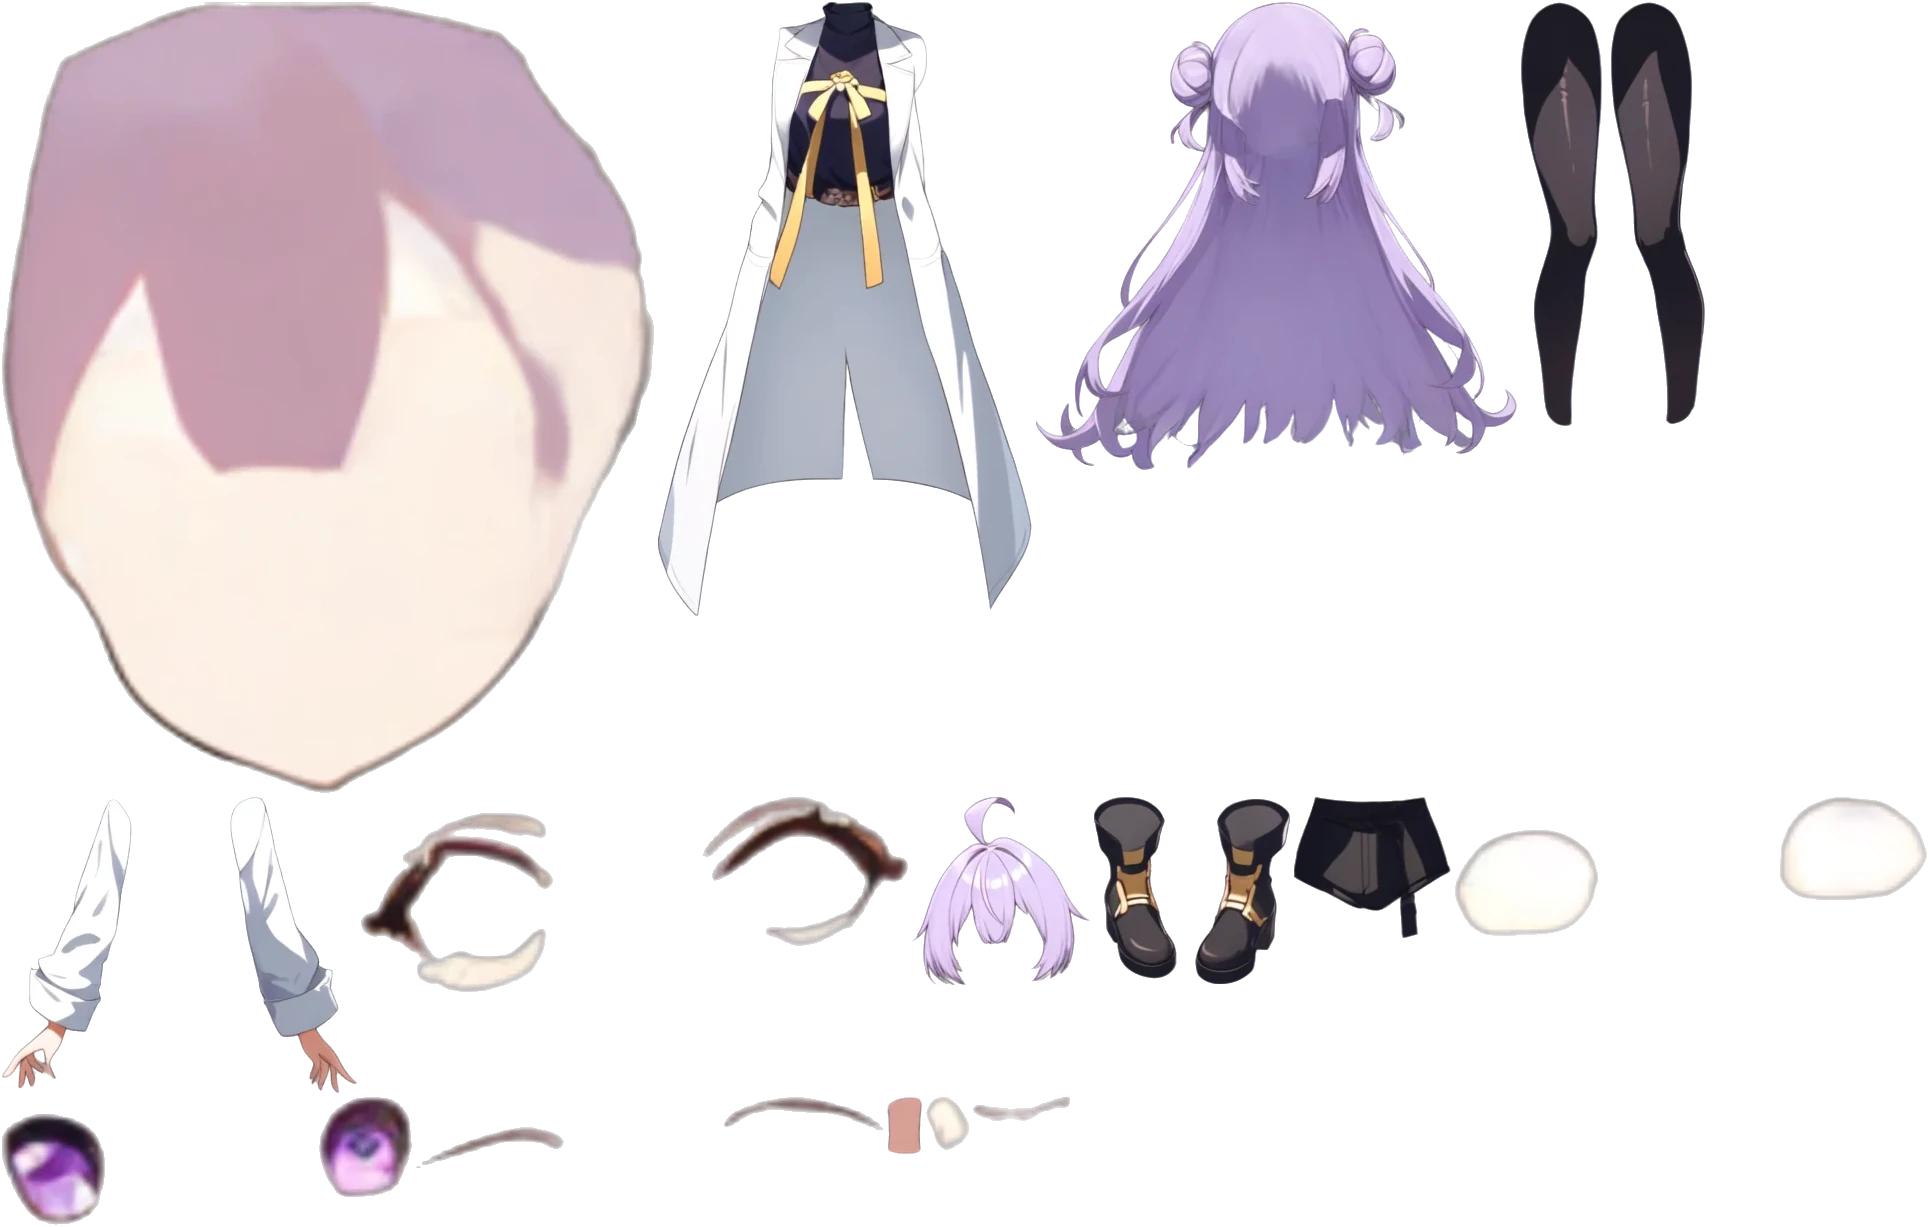
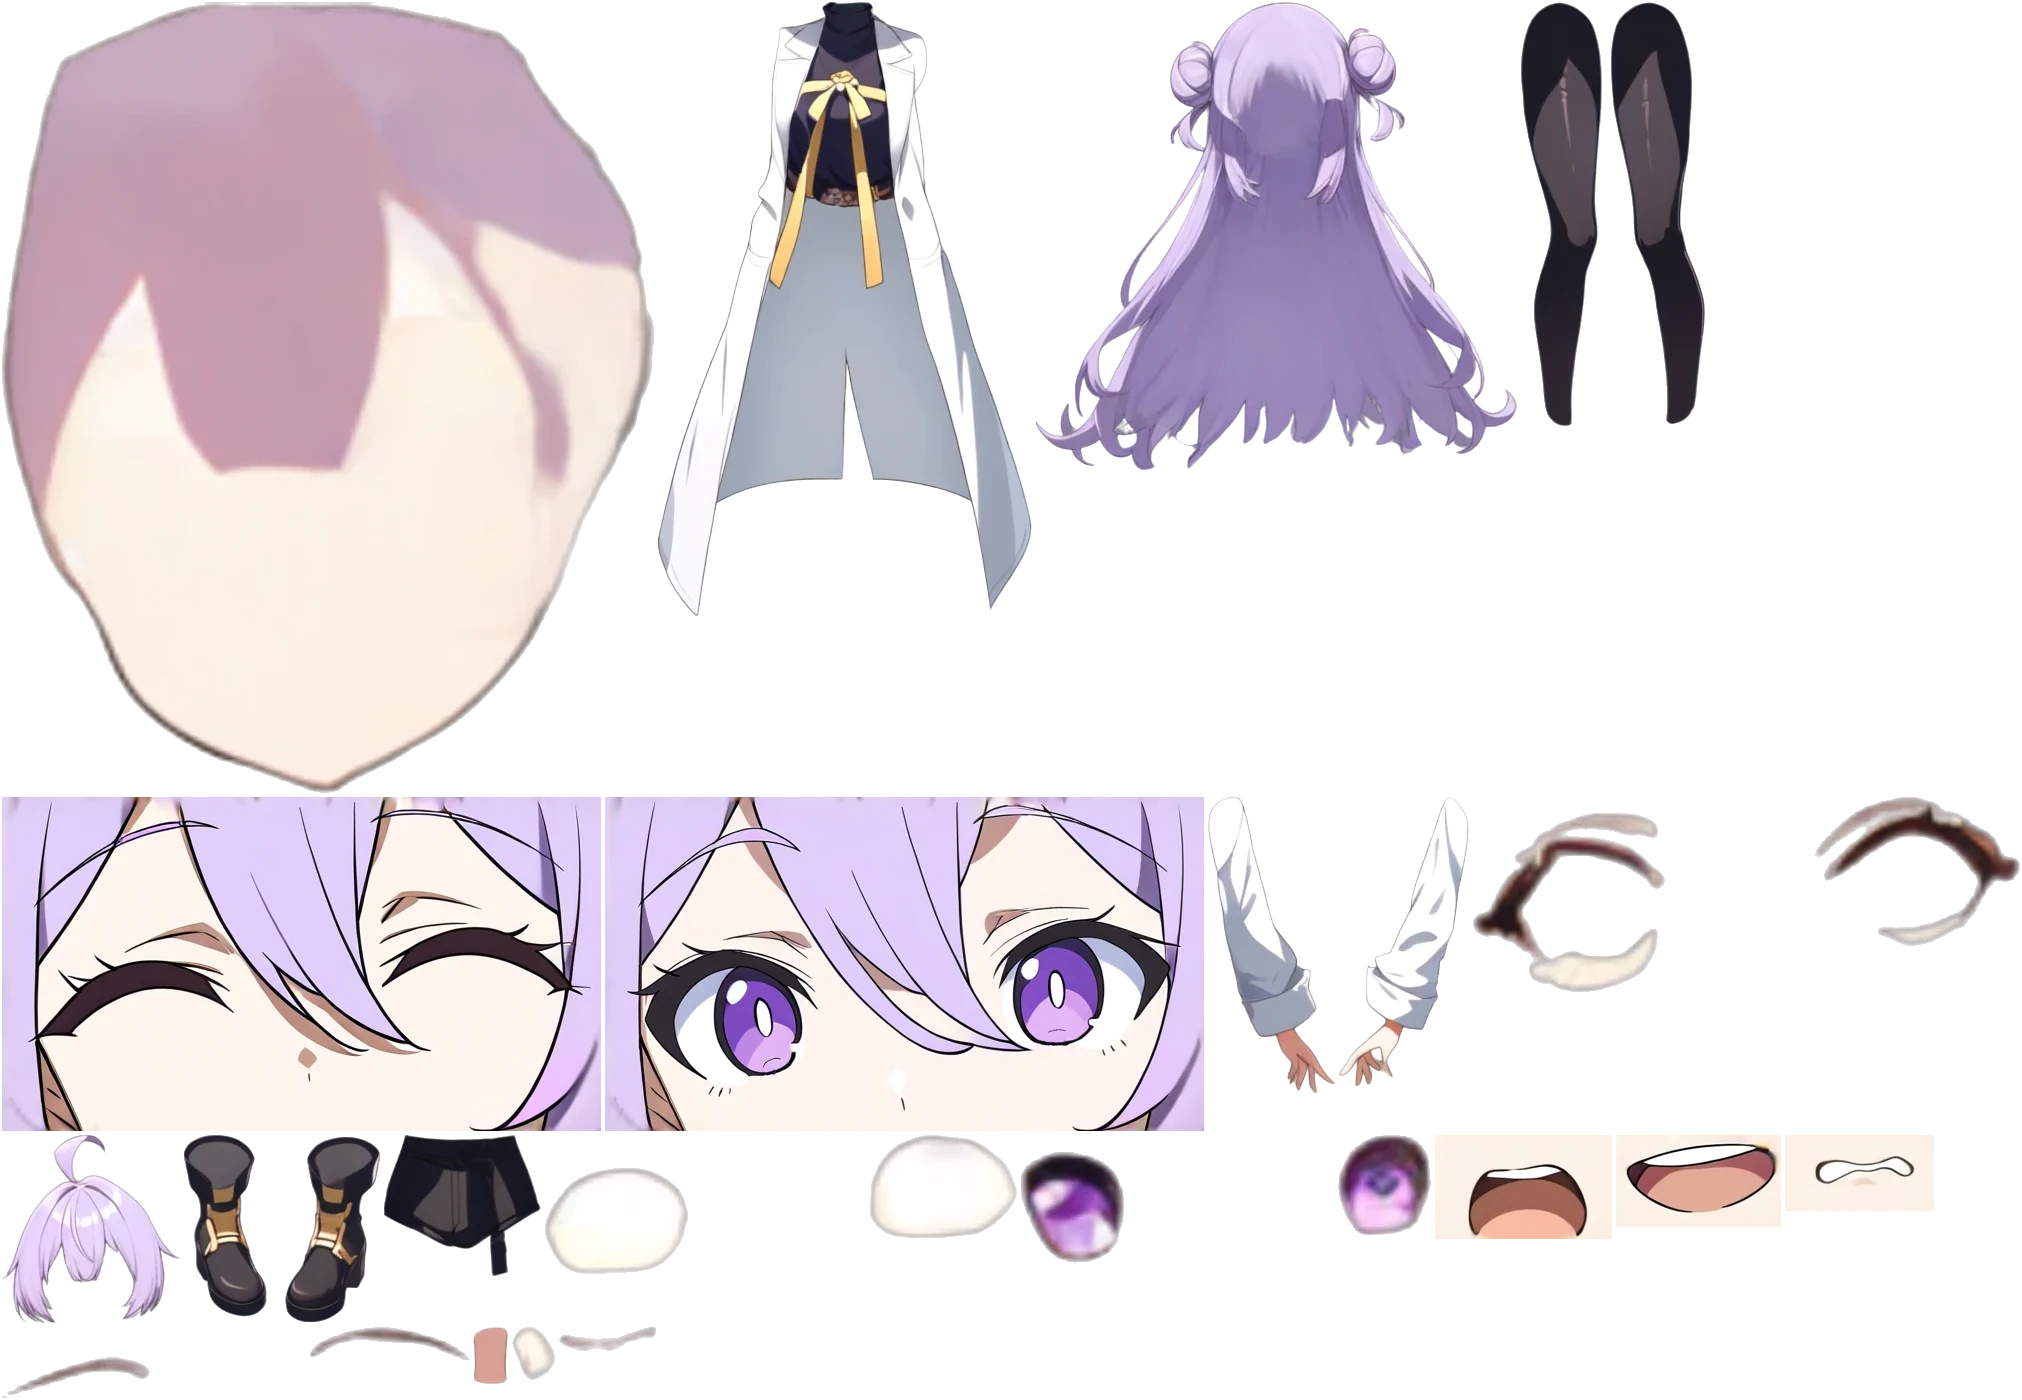
feat(karmolab): 표정이 진짜로 달라진다 — 눈·입 조각 + 팔 분리 (KL-134)
값(scaleY·scale)으로 만드는 표정에는 천장이 있었다. 입은 원본에서 17px 짜리 선
하나뿐이라 아무리 늘려도 「벌린 입」이 안 됐고, 92px 화면에서 12포즈는 사실상
같은 얼굴이었다.

같은 그림의 눈·입만 다시 그려(inpaint) 조각으로 떼어 뒀다. 새로 「생성」하면
머리도 옷도 미묘하게 달라져 좌표가 어긋나지만(그림 12장이 12명이던 것과 같은
병), 일부만 다시 그리면 나머지 픽셀이 그대로라 원래 자리에 도로 얹으면
이음매가 없다.

- 조각 5종 — 웃는 눈(^_^) · 커진 눈 · 벌린 입 · 크게 벌린 입 · 뾰로통한 입
- 팔을 좌우로 쪼갰다. 두 소매 사이의 빈 세로줄을 찾아 자른다(가운데를 눈대중으로
  자르면 손가락이 잘린다). 어깨를 축으로 도니까 환호하면 두 팔이 올라가고
  가리키기는 한 팔만 나간다
- 12포즈 프리셋을 조각·팔 각도로 다시 짰다. 조각을 켜면 그 자리의 기본 부품은
  숨긴다 — 안 그러면 눈이 네 개가 된다

안 넣은 것: 눈썹 변형(이 디자인은 앞머리가 눈썹을 가려 효과가 없다), 감은 눈
조각(두 번 뽑아도 반쯤 뜬 눈에 마스크 네모 자국이 남았다 — 기존 「눈을 아래로
눌러 닫기」가 더 깨끗하다).

아틀라스 144KB → 199KB (조각 5장 + 팔 분리분). 요청 수는 그대로 1.

검증: 실제 화면에서 조각 교체·기본 부품 숨김·팔 회전 각도까지 자동 확인 통과.

diff --git a/apps/karmolab/src/mdd.ts b/apps/karmolab/src/mdd.ts
@@ -138,13 +138,21 @@ const Mdd = (() => {
         tilt: number;
         /** 몸 전체 상하 오프셋(캔버스 px) */
         bob: number;
+        /** 왼팔·오른팔 회전(도). 어깨를 축으로 돈다. +면 손이 올라간다 */
+        armL: number;
+        armR: number;
         /** 시선 고정 방향. null 이면 커서를 따라본다 */
         gaze: { x: number; y: number } | null;
+        /** 눈을 통째로 갈아 끼우는 조각(감은 눈·웃는 눈…). null 이면 기본 눈 */
+        eyeArt: string | null;
+        /** 입 조각. null 이면 기본 입 */
+        mouthArt: string | null;
     }
 
     const NEUTRAL: AvatarPose = {
         eyeOpen: 1, eyeSquint: 0, browTilt: 0, browRaise: 0,
-        mouthOpen: 1, mouthWide: 1, blush: 0, tilt: 0, bob: 0, gaze: null,
+        mouthOpen: 1, mouthWide: 1, blush: 0, tilt: 0, bob: 0,
+        armL: 0, armR: 0, gaze: null, eyeArt: null, mouthArt: null,
     };
 
     /** 기존 12 포즈 = 이 값들의 프리셋. 사이 값도 되므로 전환이 보간된다.
@@ -154,17 +162,17 @@ const Mdd = (() => {
      * 읽히는 건 고개 각도·몸 상하·눈 개폐·홍조뿐이라 그쪽으로 몰아 준다. */
     const POSE_PRESETS: Record<string, Partial<AvatarPose>> = {
         idle:     {},
-        happy:    { eyeSquint: 0.62, mouthWide: 1.8, mouthOpen: 2.0, blush: 0.4, tilt: -9, bob: -5 },
-        sad:      { eyeOpen: 0.55, browTilt: -18, browRaise: 4, mouthWide: 0.75, tilt: 13, bob: 12 },
-        shock:    { eyeOpen: 1.7, browRaise: -8, mouthOpen: 4.5, mouthWide: 1.2, tilt: -2, bob: -8 },
+        happy:    { eyeArt: 'eyes-happy', mouthArt: 'mouth-open', blush: 0.4, tilt: -9, bob: -5 },
+        sad:      { eyeOpen: 0.55, mouthArt: 'mouth-frown', tilt: 13, bob: 12, armL: 6, armR: -6 },
+        shock:    { eyeArt: 'eyes-wide', mouthArt: 'mouth-wide', tilt: -2, bob: -8, armL: -14, armR: 14 },
         think:    { eyeOpen: 0.8, browTilt: 10, browRaise: -3, mouthWide: 0.85, tilt: 15, gaze: { x: 0.85, y: -0.7 } },
-        sleep:    { eyeOpen: 0, eyeSquint: 0.3, browRaise: 4, mouthOpen: 1.4, tilt: 20, bob: 16 },
-        angry:    { eyeOpen: 1.15, browTilt: 24, browRaise: -6, mouthWide: 0.75, mouthOpen: 1.5, blush: 0.25, tilt: 3, bob: -3 },
-        love:     { eyeSquint: 0.78, mouthWide: 1.5, blush: 1, tilt: -12, bob: -6 },
+        sleep:    { eyeOpen: 0, eyeSquint: 0.3, mouthOpen: 1.4, tilt: 20, bob: 16 },
+        angry:    { eyeArt: 'eyes-wide', mouthArt: 'mouth-frown', blush: 0.25, tilt: 3, bob: -3, armL: 10, armR: -10 },
+        love:     { eyeArt: 'eyes-happy', mouthArt: 'mouth-open', blush: 1, tilt: -12, bob: -6 },
         smug:     { eyeOpen: 0.72, browTilt: 8, browRaise: -4, mouthWide: 1.3, tilt: -15, gaze: { x: -0.7, y: 0.2 } },
-        eating:   { eyeSquint: 0.5, mouthOpen: 3.2, mouthWide: 1.2, blush: 0.3, tilt: 5, bob: 4 },
-        pointing: { eyeOpen: 1.25, browRaise: -6, mouthOpen: 2.2, mouthWide: 1.25, tilt: -7, bob: -9 },
-        cheer:    { eyeSquint: 0.7, mouthOpen: 3.5, mouthWide: 1.6, blush: 0.5, tilt: 0, bob: -18 },
+        eating:   { eyeArt: 'eyes-happy', mouthArt: 'mouth-open', blush: 0.3, tilt: 5, bob: 4 },
+        pointing: { eyeOpen: 1.25, mouthArt: 'mouth-open', tilt: -7, bob: -9, armL: 0, armR: -38 },
+        cheer:    { eyeArt: 'eyes-happy', mouthArt: 'mouth-wide', blush: 0.5, tilt: 0, bob: -18, armL: -46, armR: 46 },
     };
 
     /** x/y/w/h = 원본 캔버스에서의 자리, s* = 아틀라스에서 잘라 올 자리 */
@@ -174,6 +182,8 @@ const Mdd = (() => {
         canvas: [number, number];
         atlas: { src: string; w: number; h: number };
         order: string[];
+        /** 평소엔 숨어 있다가 그 표정일 때만 보이는 조각들 */
+        variants?: string[];
         parts: Record<string, PartBox>;
     }
 
@@ -181,6 +191,8 @@ const Mdd = (() => {
     const HEAD_PARTS = new Set(['back-hair', 'face', 'ears', 'eyewhite', 'irides',
         'eyelash', 'eyebrow', 'nose', 'mouth', 'front-hair', 'headwear']);
     const EYE_PARTS = new Set(['eyewhite', 'irides', 'eyelash']);
+    /** 팔은 어깨(위쪽 안쪽 모서리)를 축으로 돈다 */
+    const ARM_PIVOT: Record<string, string> = { 'arm-l': '100% 8%', 'arm-r': '0% 8%' };
 
     /** 화면에 보여 줄 범위(원본 캔버스 좌표). 우하단 상주는 작아서 얼굴이 읽혀야 한다. */
     const FRAMING = {
@@ -227,6 +239,7 @@ const Mdd = (() => {
         // 벌리기)을 한 요소에 겹쳐 쓰면 회전용 축(목덜미)을 스케일이 그대로 물려받아
         // 눈·입이 얼굴 밖으로 튄다 — 축이 다른 두 변형은 층을 나눠야 한다.
         const layers = new Map<string, HTMLDivElement>();
+        const variantNames = manifest.variants || [];
         const headGroups: HTMLDivElement[] = [];
         let group: HTMLDivElement | null = null;
         for (const name of manifest.order) {
@@ -245,6 +258,7 @@ const Mdd = (() => {
             // 필요한 칸만 꺼내 쓴다 — 브라우저가 받는 그림은 하나다.
             const el2 = document.createElement('div');
             el2.className = 'mdd-av-part';
+            el2.dataset.part = name;      // 어느 부위인지 화면에서 바로 알아볼 수 있게
             el2.style.left = box.x + 'px';
             el2.style.top = box.y + 'px';
             el2.style.width = box.w + 'px';
@@ -311,7 +325,7 @@ const Mdd = (() => {
             // 값 보간 — 포즈가 튀지 않고 흘러간다
             const k = REDUCED ? 1 : 0.14;
             for (const key of Object.keys(NEUTRAL) as (keyof AvatarPose)[]) {
-                if (key === 'gaze') continue;
+                if (key === 'gaze' || key === 'eyeArt' || key === 'mouthArt') continue;
                 (pose[key] as number) += ((target[key] as number) - (pose[key] as number)) * k;
             }
 
@@ -321,7 +335,7 @@ const Mdd = (() => {
             gaze.y += (wanted.y - gaze.y) * (REDUCED ? 1 : 0.1);
 
             // 눈깜빡임 — 일정 간격이면 기계처럼 보인다. 다음 시각을 매번 새로 뽑는다
-            if (!REDUCED && motion.blink && target.eyeOpen > 0.15) {
+            if (!REDUCED && motion.blink && !target.eyeArt && target.eyeOpen > 0.15) {
                 if (blinkPhase > 0) {
                     blinkPhase -= 1 / 7;                 // 약 7 프레임에 걸쳐 감았다 뜬다
                     blink = Math.abs(blinkPhase * 2 - 1);
@@ -375,6 +389,34 @@ const Mdd = (() => {
                 brow.style.transformOrigin = '50% 50%';
                 brow.style.transform =
                     `translate(0px, ${pose.browRaise}px) rotate(${pose.browTilt * 0.35}deg)`;
+            }
+
+            // 표정 조각 — 눈·입을 통째로 갈아 끼운다.
+            //
+            // 값(scaleY·scale)으로 만드는 표정에는 천장이 있다. 입은 원본에서
+            // 17px 짜리 선 하나뿐이라 아무리 늘려도 「벌린 입」이 안 된다. 같은
+            // 그림의 그 부분만 다시 그려 둔 조각을 얹으면 진짜로 달라진다.
+            const eyeArt = target.eyeArt;
+            const mouthArt = target.mouthArt;
+            for (const name of variantNames) {
+                const v = layers.get(name);
+                if (!v) continue;
+                v.style.display = (name === eyeArt || name === mouthArt) ? '' : 'none';
+            }
+            // 갈아 끼운 자리의 기본 부품은 숨긴다 — 겹치면 눈이 네 개가 된다
+            for (const name of EYE_PARTS) {
+                const b = layers.get(name);
+                if (b) b.style.display = eyeArt ? 'none' : '';
+            }
+            const baseMouth = layers.get('mouth');
+            if (baseMouth) baseMouth.style.display = mouthArt ? 'none' : '';
+
+            // 팔 — 어깨를 축으로. 손 흔들기·가리키기가 여기서 나온다
+            for (const [name, pivot] of Object.entries(ARM_PIVOT)) {
+                const arm = layers.get(name);
+                if (!arm) continue;
+                arm.style.transformOrigin = pivot;
+                arm.style.transform = `rotate(${name === 'arm-l' ? pose.armL : pose.armR}deg)`;
             }
 
             const mouth = layers.get('mouth');
